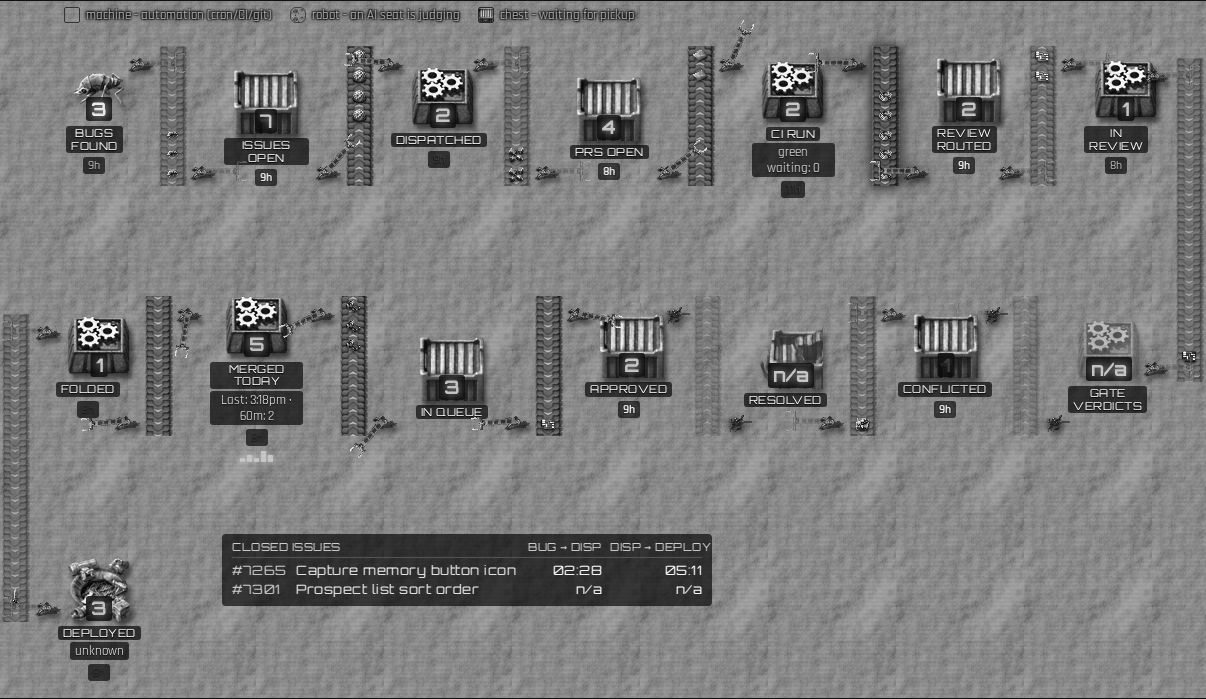
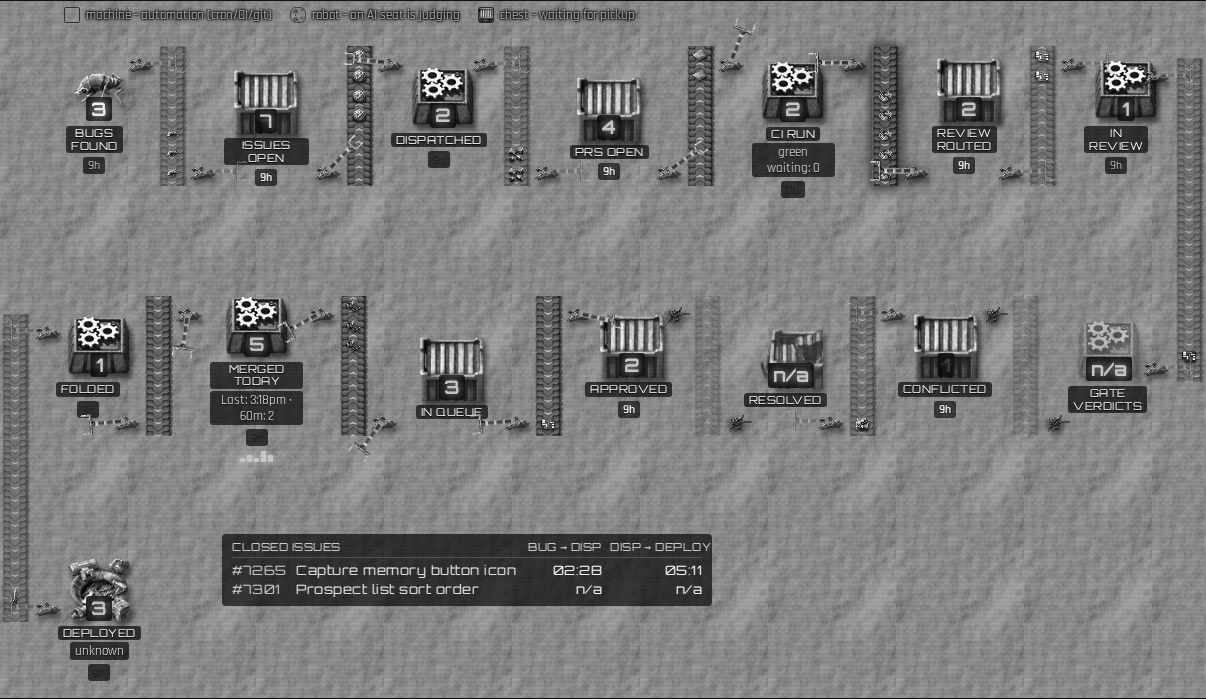
feat(monitor): fast inserters with carry/return hand animation; session writeup
Ben: "swap out all the long handled inserters with fast inserters.
revisit the animation sprites for them." Pulled fast-inserter-platform /
hand-base / hand-open / hand-closed and the fast-inserter remnants from
his Factorio install (same sheet layout as the long-handed set, so the
CSS geometry holds); the long-handed sheets are deleted, not kept. The
swing keyframes now also switch the hand sprite - closed (carrying) from
pickup to drop, open (empty) on the return - so it is an inserter cycle,
not one frame rotating.

SOURCE.md and the evidence README record the full 2026-09-12 live
session (all-vertical belts, queues, 7/7/1, closed-issues list, etc).
Test: every platform is the fast-inserter sheet, nothing long-handed is
served.

Claude-Session: https://claude.ai/code/session_015a21LH9eqkn4oZydkWAQ3i

diff --git a/queue_router.py b/queue_router.py
@@ -7369,16 +7369,18 @@ filter:var(--ground-shadow)}
 .ship-legend-swatch.stage-machine{border-radius:2px;border:1px solid #2a3450;background:rgba(255,255,255,.03)}
 .ship-legend-swatch.stage-robot{border-radius:6px;border:1px solid #364563;box-shadow:0 0 6px rgba(0,255,242,.3)}
 .ship-legend-swatch.stage-chest{border-radius:2px;border:1px solid #242c42;background-image:url('/static/factorio/chest/steel-chest.png');background-size:16px 20px;background-position:center top}
-/* long-handed-inserter-platform.png is a 4-frame rotation strip, 105x79 per
-   frame; scaled to a 30x23 slot and cropped to frame 1 (east-facing) via
-   background-position - never stretched, so it never distorts. */
+/* fast-inserter-platform.png (Ben: "swap out all the long handled
+   inserters with fast inserters") is a 4-frame rotation strip, 105x79 per
+   frame - same sheet layout as the long-handed one it replaces; scaled to
+   a 30x23 slot and cropped to frame 1 (east-facing) via background-position
+   - never stretched, so it never distorts. */
 /* flex:0 0 auto (not a fixed basis) - same reasoning as .ship-belt-vertical
    below: this sits in both a row-direction parent (plain/vbelt arrows) and
    a column-direction one (the row-turn arrows), and a fixed flex-basis
    would hijack whichever axis is "main" in each. */
 .ship-inserter{position:relative;width:34px;height:32px;flex:0 0 auto;display:flex;align-items:center;justify-content:center}
 .ship-inserter .inserter-platform{position:absolute;left:0;bottom:0;width:30px;height:23px;
-background-image:url('/static/factorio/inserter/long-handed-inserter-platform.png');
+background-image:url('/static/factorio/inserter/fast-inserter-platform.png');
 background-size:120px 23px;background-position:-30px 0;background-repeat:no-repeat;
 image-rendering:pixelated;opacity:.85;filter:var(--ground-shadow)}
 /* Hand images are a tall 72x164 single frame - scaled with width/height in the
@@ -7421,8 +7423,10 @@ animation-duration:var(--swing-duration,1.6s);animation-delay:var(--swing-delay,
    for a loading inserter, the stage for an unloading one); pickup is the
    far side, 180 degrees away; the arm sweeps over the top between them. */
 @keyframes inserter-swing{
-0%,100%{transform:rotate(calc(var(--arm-rest,90deg) - 180deg))}
-50%{transform:rotate(var(--arm-rest,90deg))}
+0%{transform:rotate(calc(var(--arm-rest,90deg) - 180deg));background-image:url('/static/factorio/inserter/fast-inserter-hand-closed.png')}
+50%{transform:rotate(var(--arm-rest,90deg));background-image:url('/static/factorio/inserter/fast-inserter-hand-closed.png')}
+50.01%{background-image:url('/static/factorio/inserter/fast-inserter-hand-open.png')}
+100%{transform:rotate(calc(var(--arm-rest,90deg) - 180deg));background-image:url('/static/factorio/inserter/fast-inserter-hand-open.png')}
 }
 /* A backed-up (bottleneck) handoff freezes the arm at the pickup end (the
    swing's own 0%/100% extreme) instead of the resting middle - it reached,
@@ -8768,7 +8772,12 @@ function shipStagePhase(square) {
     return (h % 997) / 997;
 }
 
-// The arrows are long-handed inserters (Ben, 3:21 PM CDT 2026-09-11): an
+// The arrows are fast inserters (Ben, 2026-09-12: "swap out all the long
+// handled inserters with fast inserters" - the blue ones; the sheets share
+// the long-handed layout exactly, so only the art changed). The swing
+// keyframes also switch the hand: closed (carrying) from pickup to drop,
+// open (empty) on the way back - a real inserter animation, not one still
+// frame rotating. Originally long-handed (Ben, 3:21 PM CDT 2026-09-11): an
 // inserter is literally the thing that moves items between two machines -
 // every outage found today was an arrow, not a box. Carries the moving/idle
 // state where the held item would be; mirrored on row 2 so it reaches the
@@ -8788,7 +8797,7 @@ function shipStagePhase(square) {
 // sit beside a belt whose flow is always downward.
 function shipInserterHtml(count, armRest, unknown, phaseSeed, backedUp, swingDuration, alignCls) {
     const moving = count > 0;
-    const hand = moving ? 'long-handed-inserter-hand-closed.png' : 'long-handed-inserter-hand-open.png';
+    const hand = moving ? 'fast-inserter-hand-closed.png' : 'fast-inserter-hand-open.png';
     // Ben's remnants amendment: an arrow with NO measured rate (unknown, not
     // measured-zero) shows the wrecked inserter platform, arm dimmed to
     // near-invisible - "nobody knows whether anything is stuck" must never
@@ -8800,10 +8809,10 @@ function shipInserterHtml(count, armRest, unknown, phaseSeed, backedUp, swingDur
     // centered beside it - alignCls carries that ('align-top'/'align-bottom'),
     // set by the caller from the belt's own flow direction.
     const alignClsStr = alignCls ? ' ' + alignCls : '';
-    // long-handed-inserter-remnants.png measured 134x376: 4 frames stacked
+    // fast-inserter-remnants.png measured 134x376: 4 frames stacked
     // 134x94 each - crop frame 1, don't scale the whole strip into the slot.
     const platformStyle = unknown
-        ? ' style="background-image:url(/static/factorio/remnants/long-handed-inserter-remnants.png);background-size:30px 84px;background-position:0 0"'
+        ? ' style="background-image:url(/static/factorio/remnants/fast-inserter-remnants.png);background-size:30px 84px;background-position:0 0"'
         : '';
     const phase = shipStagePhase(phaseSeed);
     const swingVars = '--arm-rest:' + armRest + 'deg;' + ((moving && swingDuration)

diff --git a/tests/dashboard-truth/factorio-belts-evidence.py b/tests/dashboard-truth/factorio-belts-evidence.py
@@ -363,6 +363,12 @@ with sync_playwright() as p:
     assert 'remnant' not in dispatched_cls and 'idle' in dispatched_cls, dispatched_cls
     resolved_cls = page.locator('.ship-arrow[data-square-left="resolved"] > .ship-inserter').nth(0).get_attribute('class')
     assert 'remnant' in resolved_cls, resolved_cls
+    # Ben: "swap out all the long handled inserters with fast inserters" -
+    # every platform is the fast (blue) inserter sheet; nothing long-handed
+    # is served any more.
+    plat = page.locator('.ship-inserter .inserter-platform').first.evaluate("el => getComputedStyle(el).backgroundImage")
+    assert 'fast-inserter-platform' in plat, plat
+    assert page.locator('.ship-inserter [style*="long-handed"]').count() == 0
     # Ben: the swing is the full 180 - pickup one side of the base, drop on
     # the other. Read the keyframe rule itself: its two extremes are 180deg
     # apart.

diff --git a/evidence/factorio-belts/README.md b/evidence/factorio-belts/README.md
@@ -364,3 +364,21 @@ Chevron direction is one known remaining nit from the belt-tile fix: the
 tile's arrows point sideways (rightward) even on the two vertical belts,
 since rotating just the background pattern (not the whole element) isn't a
 plain CSS operation - flagged rather than left silent, not blocking.
+
+## Ben's live session, 2026-09-11 evening -> 2026-09-12 (after order 17)
+
+Ben drove this round directly from his own Factorio builds (screenshots pulled from `Bens-Mac.local` over SSH each time). Every item below is a change he asked for by looking at a render, in order:
+
+- **All 14 belts vertical.** His custom rig showed a vertical belt bridging two side-by-side buildings, so the boustrophedon never had to change - only the belt inside each arrow slot did (`.ship-arrow-vbelt`, in-row, normal flow; `.ship-arrow-vertical` stays the row-end column).
+- **Inserters flank the belt left/right**, reaching both the stage before and the stage after; each sits at the belt's own beginning or end (top/bottom by flow direction), never centered beside it. Row 2 (row-reversed) mirrors so the loading inserter is on the upstream (right) side.
+- **Belts alternate direction** along a row (chevrons and item motion): row 1 starts down; row 2 starts UP because the row-end belt feeding it comes down. Row-end belts always flow down.
+- **Belts are queues.** A belt shows one item per job waiting to enter the next stage (`arrow.backlog`, cap 7), piled from the exit end. The stage number is jobs being worked; rate only sets scroll speed. `CI Q/RUN` became `CI RUN` with its queue on the belt to its left (server: prs-ci backlog = `ci_queued`).
+- **7 / 7 / 1 rows**, row-end belts run beside the last stage all the way down to beside the next row's first stage (JS-sized sprite-top to sprite-bottom, re-run after fonts load), rows 56px apart, DEPLOYED lined up under FOLDED.
+- **Real belt art.** The first vertical tile was the horizontal frame rotated (one rail, seams). Now the sheet's own north/south frames, one 64px tread period, pre-scaled to the 28px belt width, `repeat-y`.
+- **Captions and time stamps on a dark plate**, white text (Ben could not read the grey-on-sand).
+- **Assemblers where work happens, chests where it waits**; biter and silo unchanged.
+- **Fast inserters** (blue) replace the long-handed ones - same sheet layout, art swapped, long-handed files deleted. The arm pivots on the tripod's bearing (measured in the platform frame), is ~1.5x the tripod's width like his close-up, swings the **full 180** (pickup one side, drop the other, over the top), and switches hand sprite: closed while carrying to the drop, open on the way back.
+- **Remnant** now means only "the count is n/a" - it was wrecking every un-instrumented handoff even with a known count. Not time-based.
+- **Closed-issues list** on row 3: the 10 most recently closed issues with hh:mm bug found -> dispatched and dispatched -> deployed. Dispatched = lane launch time when recorded, else the first commit on the fixing PR (no per-issue dispatch ledger exists on disk); deployed = first green production deploy run started after that PR merged. n/a for any unmeasured leg. Verified against live GitHub (e.g. #6976: 186:19 / 05:51).
+
+Every change above has a named assertion in `tests/dashboard-truth/factorio-belts-evidence.py` (row counts, row-end column geometry and in-frame, chevron sequence per row, loading-inserter side per row, queue items, closed-issues panel, 180-degree keyframes, fast-inserter platforms, remnant-only-when-n/a). Suite green on every push; screenshots regenerated each run and synced to Ben's Mac.

diff --git a/static/factorio/SOURCE.md b/static/factorio/SOURCE.md
@@ -20,6 +20,13 @@ URL, so this is ordinary personal use of assets he already paid for.
 
 - `assembler/`, `belt/`, `chest/`, `inserter/`, `lab/`, `radar/`, `signal/`,
   `silo/` — cropped frames/tiles used by the shipping strip's sprites.
+  `inserter/` holds the FAST inserter sheets (platform, hand-base, hand-open,
+  hand-closed - 2026-09-12, Ben: "swap out all the long handled inserters
+  with fast inserters"); the long-handed sheets they replaced were deleted,
+  not kept alongside. `belt/` also carries `belt-tile-vertical.png` /
+  `belt-tile-vertical-up.png`: the sheet's own south/north straight-belt
+  frames cropped to one 64px tread period and pre-scaled to the strip's
+  28px belt width.
 - `remnants/` — wreckage art shown for a stage/arrow with no measured data.
 - `biter/` (order 15, 2026-09-11) — `small-biter.png`, `medium-biter.png`,
   `small-biter-corpse.png`. Used for the `BUGS FOUND` stage: corpse at a
